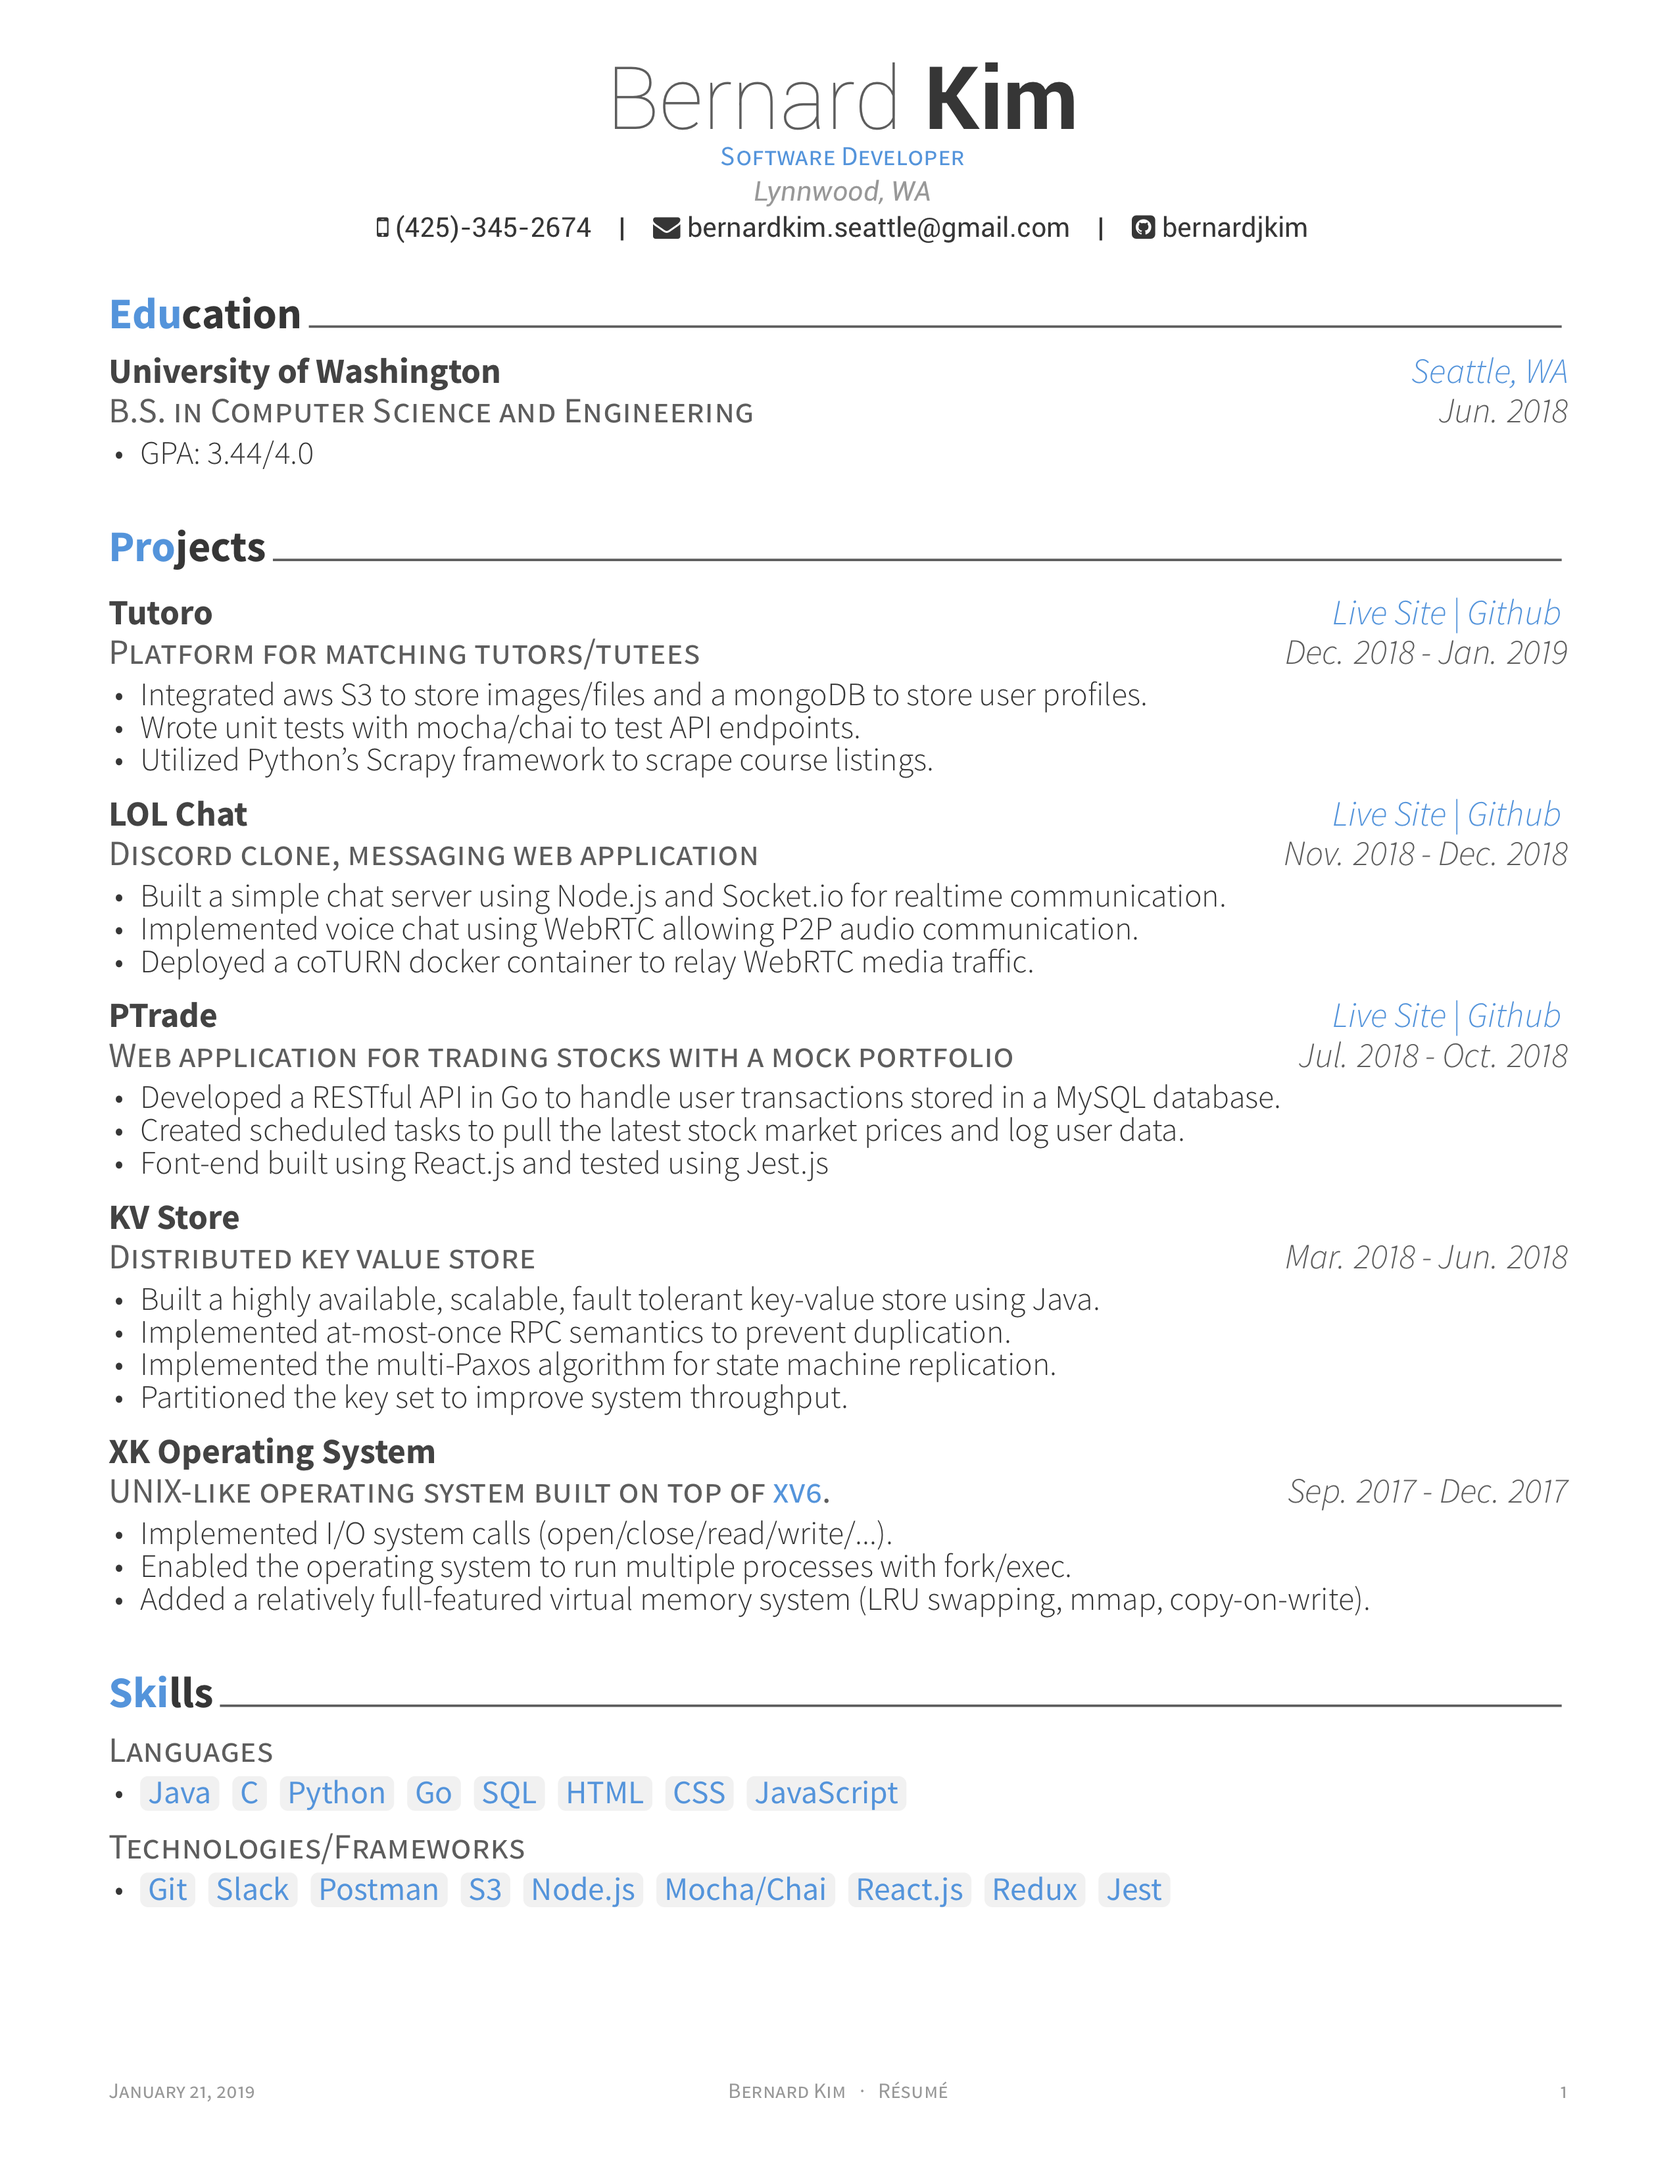
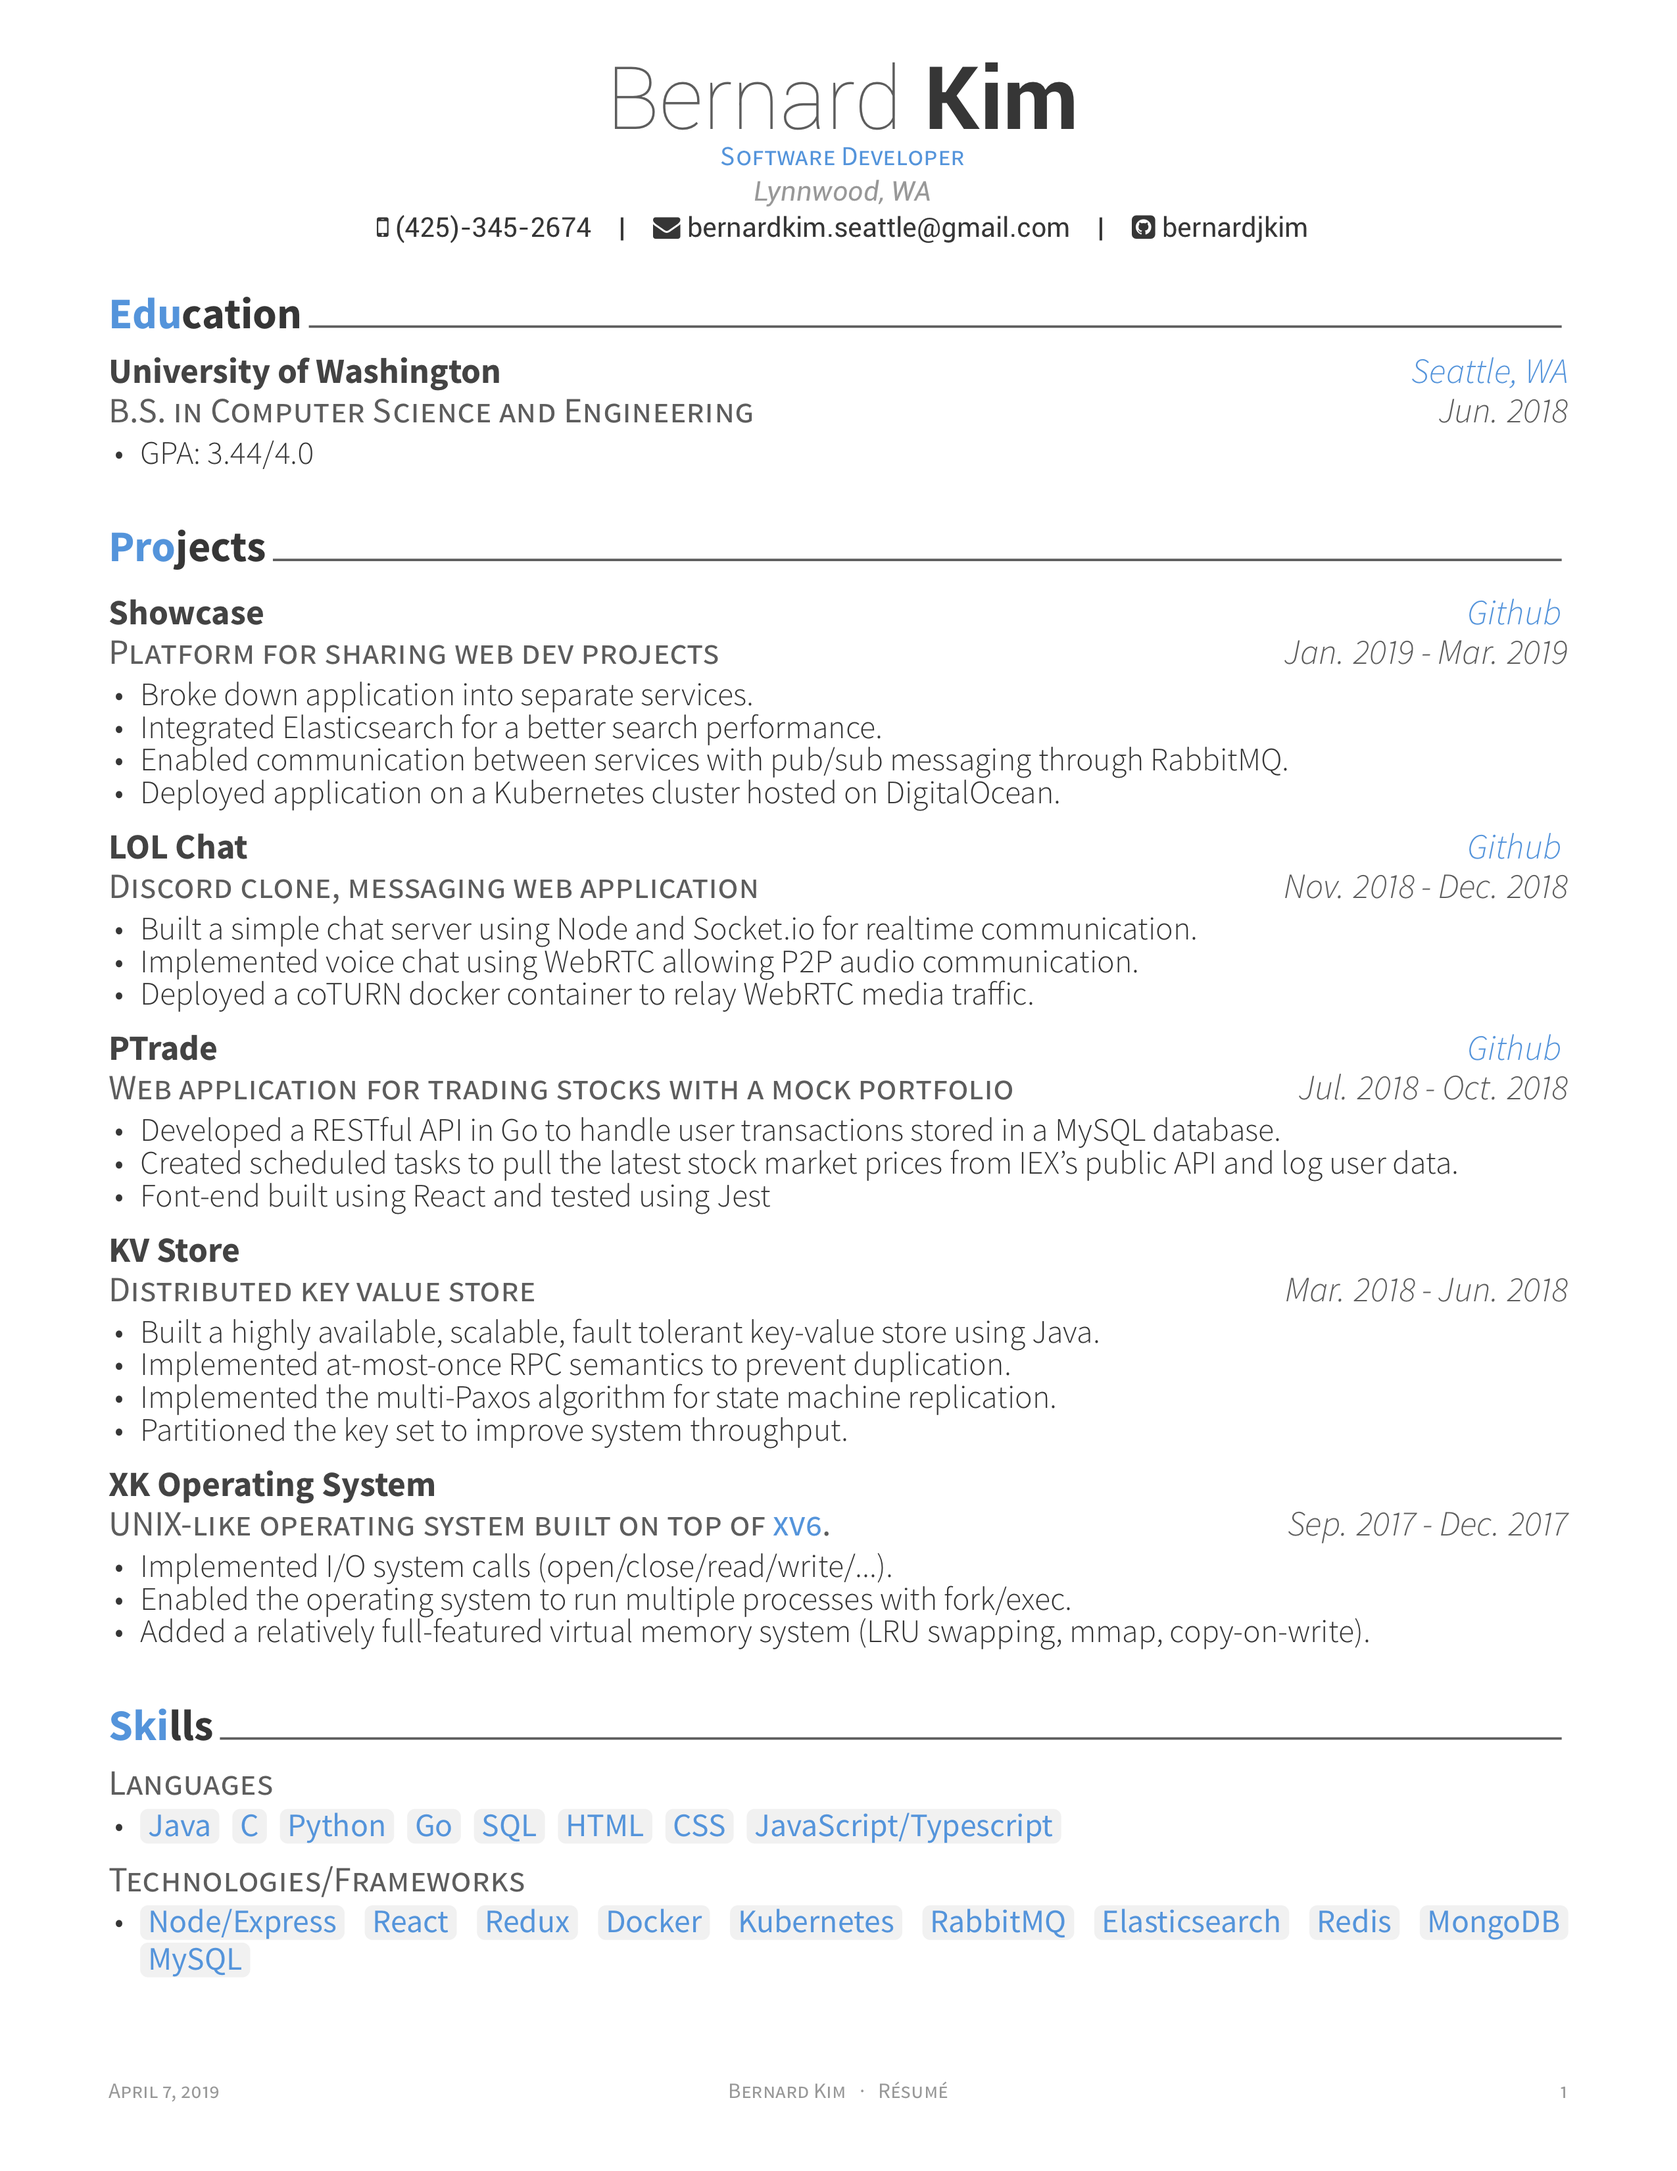
added showcase to projects

diff --git a/examples/resume/projects.tex b/examples/resume/projects.tex
@@ -11,18 +11,19 @@
 
 %---------------------------------------------------------
   \cventry
-    {Platform for matching tutors/tutees} % Description
-    {Tutoro} % Project Title
+    {Platform for sharing web dev projects} % Description
+    {Showcase} % Project Title
     {
-      \href{https://tutoro-uw.herokuapp.com}{Live Site} | 
-      \href{https://github.com/bernardjkim/tutoro}{Github}
+      % \href{https://tutoro-uw.herokuapp.com}{Live Site} | 
+      \href{https://github.com/bernardjkim/showcase}{Github}
     } % Links
-    {Dec. 2018 - Jan. 2019} % Date(s)
+    {Jan. 2019 - Mar. 2019} % Date(s)
     {
       \begin{cvitems} % Description(s) of tasks/responsibilities
-        \item {Integrated aws S3 to store images/files and a mongoDB to store user profiles.}
-        \item {Wrote unit tests with mocha/chai to test API endpoints.}
-        \item {Utilized Python's Scrapy framework to scrape course listings.}
+        \item {Broke down application into separate services.}
+        \item {Integrated Elasticsearch for a better search performance.}
+        \item {Enabled communication between services with pub/sub messaging through RabbitMQ.}
+        \item {Deployed application on a Kubernetes cluster hosted on DigitalOcean.}
       \end{cvitems}
     }
 
@@ -31,13 +32,13 @@
     {Discord clone, messaging web application} % Description
     {LOL Chat} % Project Title
     {
-      \href{https://lol-chatt.herokuapp.com}{Live Site} | 
+      % \href{https://lol-chatt.herokuapp.com}{Live Site} | 
       \href{https://github.com/bernardjkim/lol-chat}{Github}
     } % Links
     {Nov. 2018 - Dec. 2018} % Date(s)
     {
       \begin{cvitems} % Description(s) of tasks/responsibilities
-        \item {Built a simple chat server using Node.js and Socket.io for realtime communication.}
+        \item {Built a simple chat server using Node and Socket.io for realtime communication.}
         \item {Implemented voice chat using WebRTC allowing P2P audio communication.}
         \item {Deployed a coTURN docker container to relay WebRTC media traffic.}
       \end{cvitems}
@@ -48,15 +49,15 @@
     {Web application for trading stocks with a mock portfolio} % Description
     {PTrade} % Project Title
     {
-      \href{https://p-trade.herokuapp.com}{Live Site} | 
+      % \href{https://p-trade.herokuapp.com}{Live Site} | 
       \href{https://github.com/bernardjkim/ptrade}{Github}
     } % Links
     {Jul. 2018 - Oct. 2018} % Date(s)
     {
       \begin{cvitems} % Description(s) of tasks/responsibilities
         \item {Developed a RESTful API in Go to handle user transactions stored in a MySQL database.}
-        \item {Created scheduled tasks to pull the latest stock market prices and log user data.}
-        \item {Font-end built using React.js and tested using Jest.js}
+        \item {Created scheduled tasks to pull the latest stock market prices from IEX's public API and log user data.}
+        \item {Font-end built using React and tested using Jest}
       \end{cvitems}
     }
 

diff --git a/examples/resume/skills.tex b/examples/resume/skills.tex
@@ -25,7 +25,7 @@
           \cvtag{SQL}
           \cvtag{HTML}
           \cvtag{CSS}
-          \cvtag{JavaScript}
+          \cvtag{JavaScript/Typescript}
         }
       \end{cvitems}
     }
@@ -39,15 +39,16 @@
     {
       \begin{cvitems} % List Languages/Tech
         \item {
-          \cvtag{Git}
-          \cvtag{Slack}
-          \cvtag{Postman}
-          \cvtag{S3}
-          \cvtag{Node.js}
-          \cvtag{Mocha/Chai}
-          \cvtag{React.js}
+          \cvtag{Node/Express}
+          \cvtag{React}
           \cvtag{Redux}
-          \cvtag{Jest}
+          \cvtag{Docker}
+          \cvtag{Kubernetes}
+          \cvtag{RabbitMQ}
+          \cvtag{Elasticsearch}
+          \cvtag{Redis}
+          \cvtag{MongoDB}
+          \cvtag{MySQL}
         }
       \end{cvitems}
     }
